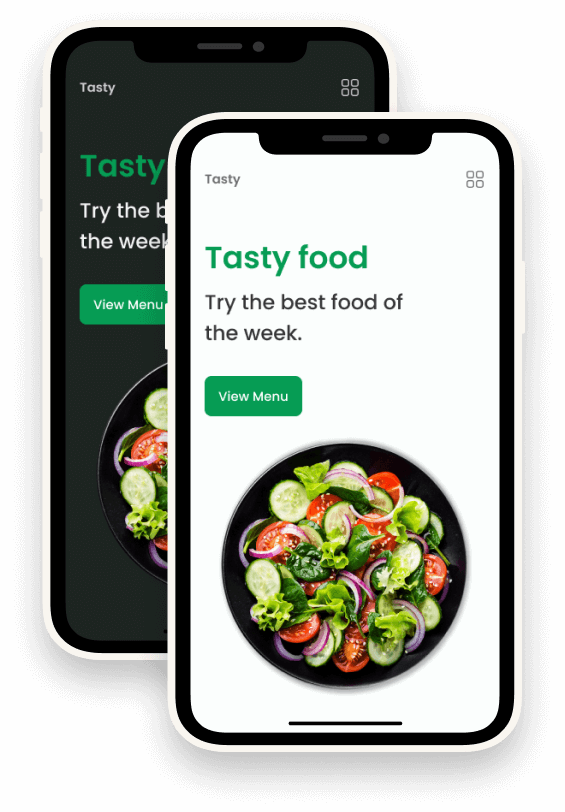
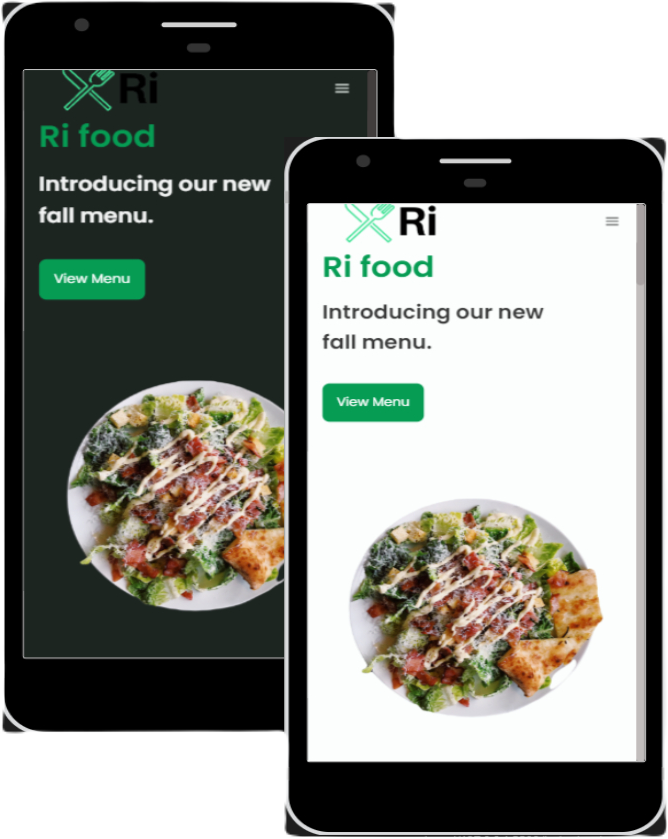
completed the website and added a preview

diff --git a/index.html b/index.html
@@ -22,7 +22,9 @@
         <!--========== HEADER ==========-->
         <header class="l-header" id="header">
             <nav class="nav bd-container">
-                <a href="#" class="nav__logo">Tasty</a>
+                <a href="#" class="nav__logo">
+                    <img src="./assets/img/logo.png" alt="Shi's logo" width="150" height="40">
+                    </a>
 
                 <div class="nav__menu" id="nav-menu">
                     <ul class="nav__list">
@@ -47,8 +49,8 @@
             <section class="home" id="home">
                 <div class="home__container bd-container bd-grid">
                     <div class="home__data">
-                        <h1 class="home__title">Tasty food</h1>
-                        <h2 class="home__subtitle">Try the best food of <br> the week.</h2>
+                        <h1 class="home__title">Ri food</h1>
+                        <h2 class="home__subtitle">Introducing our new <br> fall menu.</h2>
                         <a href="#" class="button">View Menu</a>
                     </div>
     
@@ -61,12 +63,12 @@
                 <div class="about__container  bd-grid">
                     <div class="about__data">
                         <span class="section-subtitle about__initial">About us</span>
-                        <h2 class="section-title about__initial">We cook the best <br> tasty food</h2>
-                        <p class="about__description">We cook the best food in the entire city, with excellent customer service, the best meals and at the best price, visit us.</p>
+                        <h2 class="section-title about__initial">Fresh, healthy and delicious food <br> delivered to your door</h2>
+                        <p class="about__description">We cook the best food in the entire city, with excellent customer service, the best meals and at the best price.</p>
                         <a href="#" class="button">Explore history</a>
                     </div>
 
-                    <img src="assets/img/about.jpg" alt="" class="about__img">
+                    <img src="assets/img/about.png" alt="" class="about__img">
                 </div>
             </section>
 
@@ -394,7 +396,7 @@
                 <div class="app__container bd-grid">
                     <div class="app__data">
                         <span class="section-subtitle app__initial">App</span>
-                        <h2 class="section-title app__initial">App is aviable</h2>
+                        <h2 class="section-title app__initial">App is available</h2>
                         <p class="app__description">Find our application and download it, you can make reservations, food orders, see your deliveries on the way and much more.</p>
                         <div class="app__stores">
                             <a href="#"><img src="assets/img/app1.png" alt="" class="app__store"></a>
@@ -426,7 +428,7 @@
         <footer class="footer section bd-container">
             <div class="footer__container bd-grid">
                 <div class="footer__content">
-                    <a href="#" class="footer__logo">Tasty Food</a>
+                    <a href="#" class="footer__logo">Ri Food</a>
                     <span class="footer__description">Restaurant</span>
                     <div>
                         <a href="#" class="footer__social"><i class='bx bxl-facebook'></i></a>

diff --git a/assets/css/styles.css b/assets/css/styles.css
@@ -71,6 +71,17 @@ body.dark-theme {
   --body-color: #1d2521;
   --container-color: #27302c;
 }
+.dark-theme::-webkit-scrollbar {
+  background-color: hsl(360, 4%, 15%);
+}
+
+.dark-theme::-webkit-scrollbar-thumb {
+  background-color: hsl(360, 4%, 25%);
+}
+
+.dark-theme::-webkit-scrollbar-thumb:hover {
+  background-color: hsl(360, 4%, 35%);
+}
 
 /*========== Button Dark/Light ==========*/
 .change-theme {
@@ -224,6 +235,22 @@ img {
 /* Change background header */
 .scroll-header {
   box-shadow: 0 2px 4px rgba(0, 0, 0, 0.1);
+}
+
+/* ========================SCROLL BAR =================*/
+::-webkit-scrollbar {
+  width: 0.6rem;
+  border-radius: 0.5rem;
+  background-color: hsl(360, 4%, 75%);
+}
+
+::-webkit-scrollbar-thumb {
+  background-color: hsl(360, 4%, 65%);
+  border-radius: 0.5rem;
+}
+
+::-webkit-scrollbar-thumb:hover {
+  background-color: hsl(360, 4%, 55%);
 }
 
 /* Scroll top */
